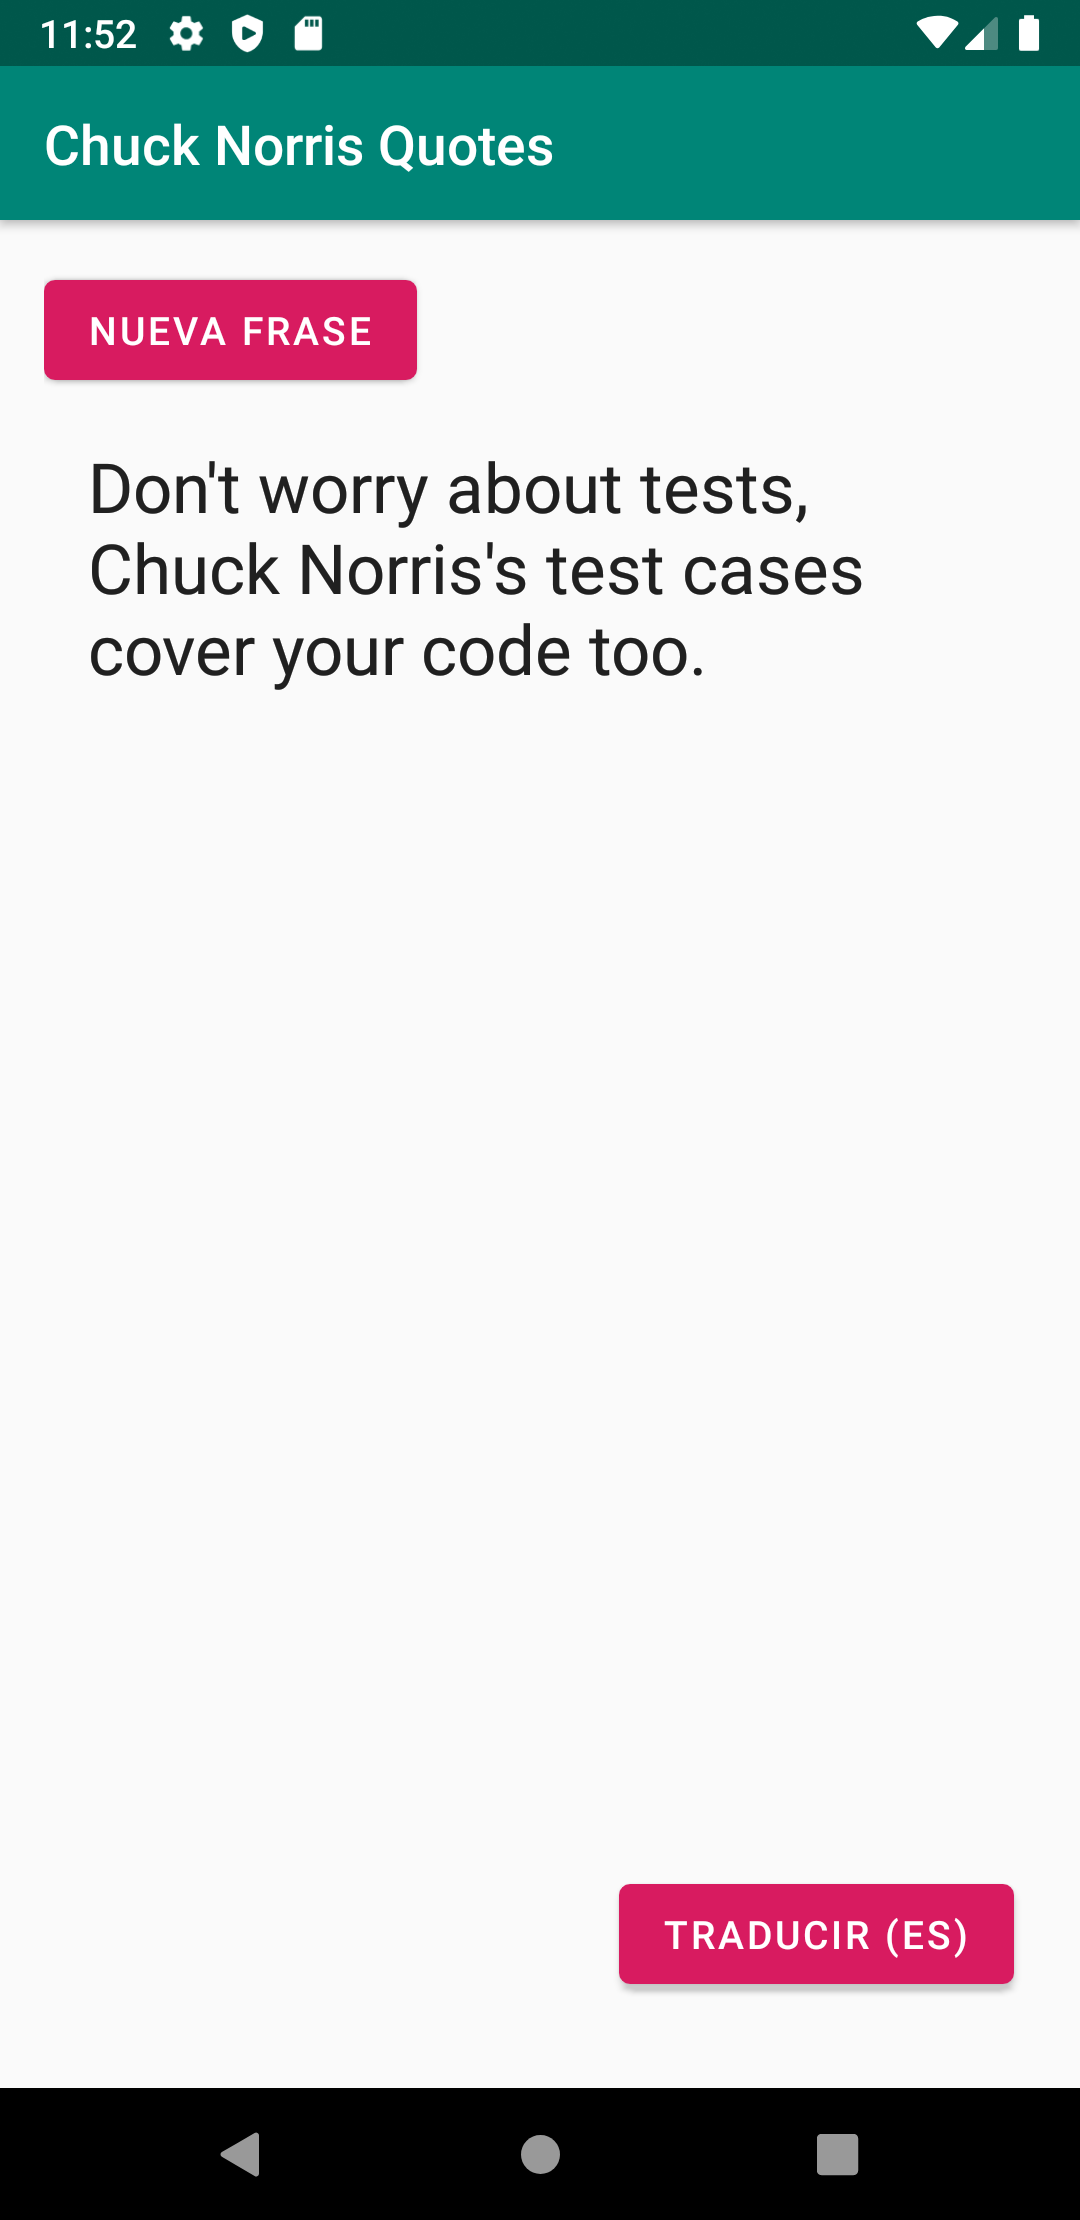
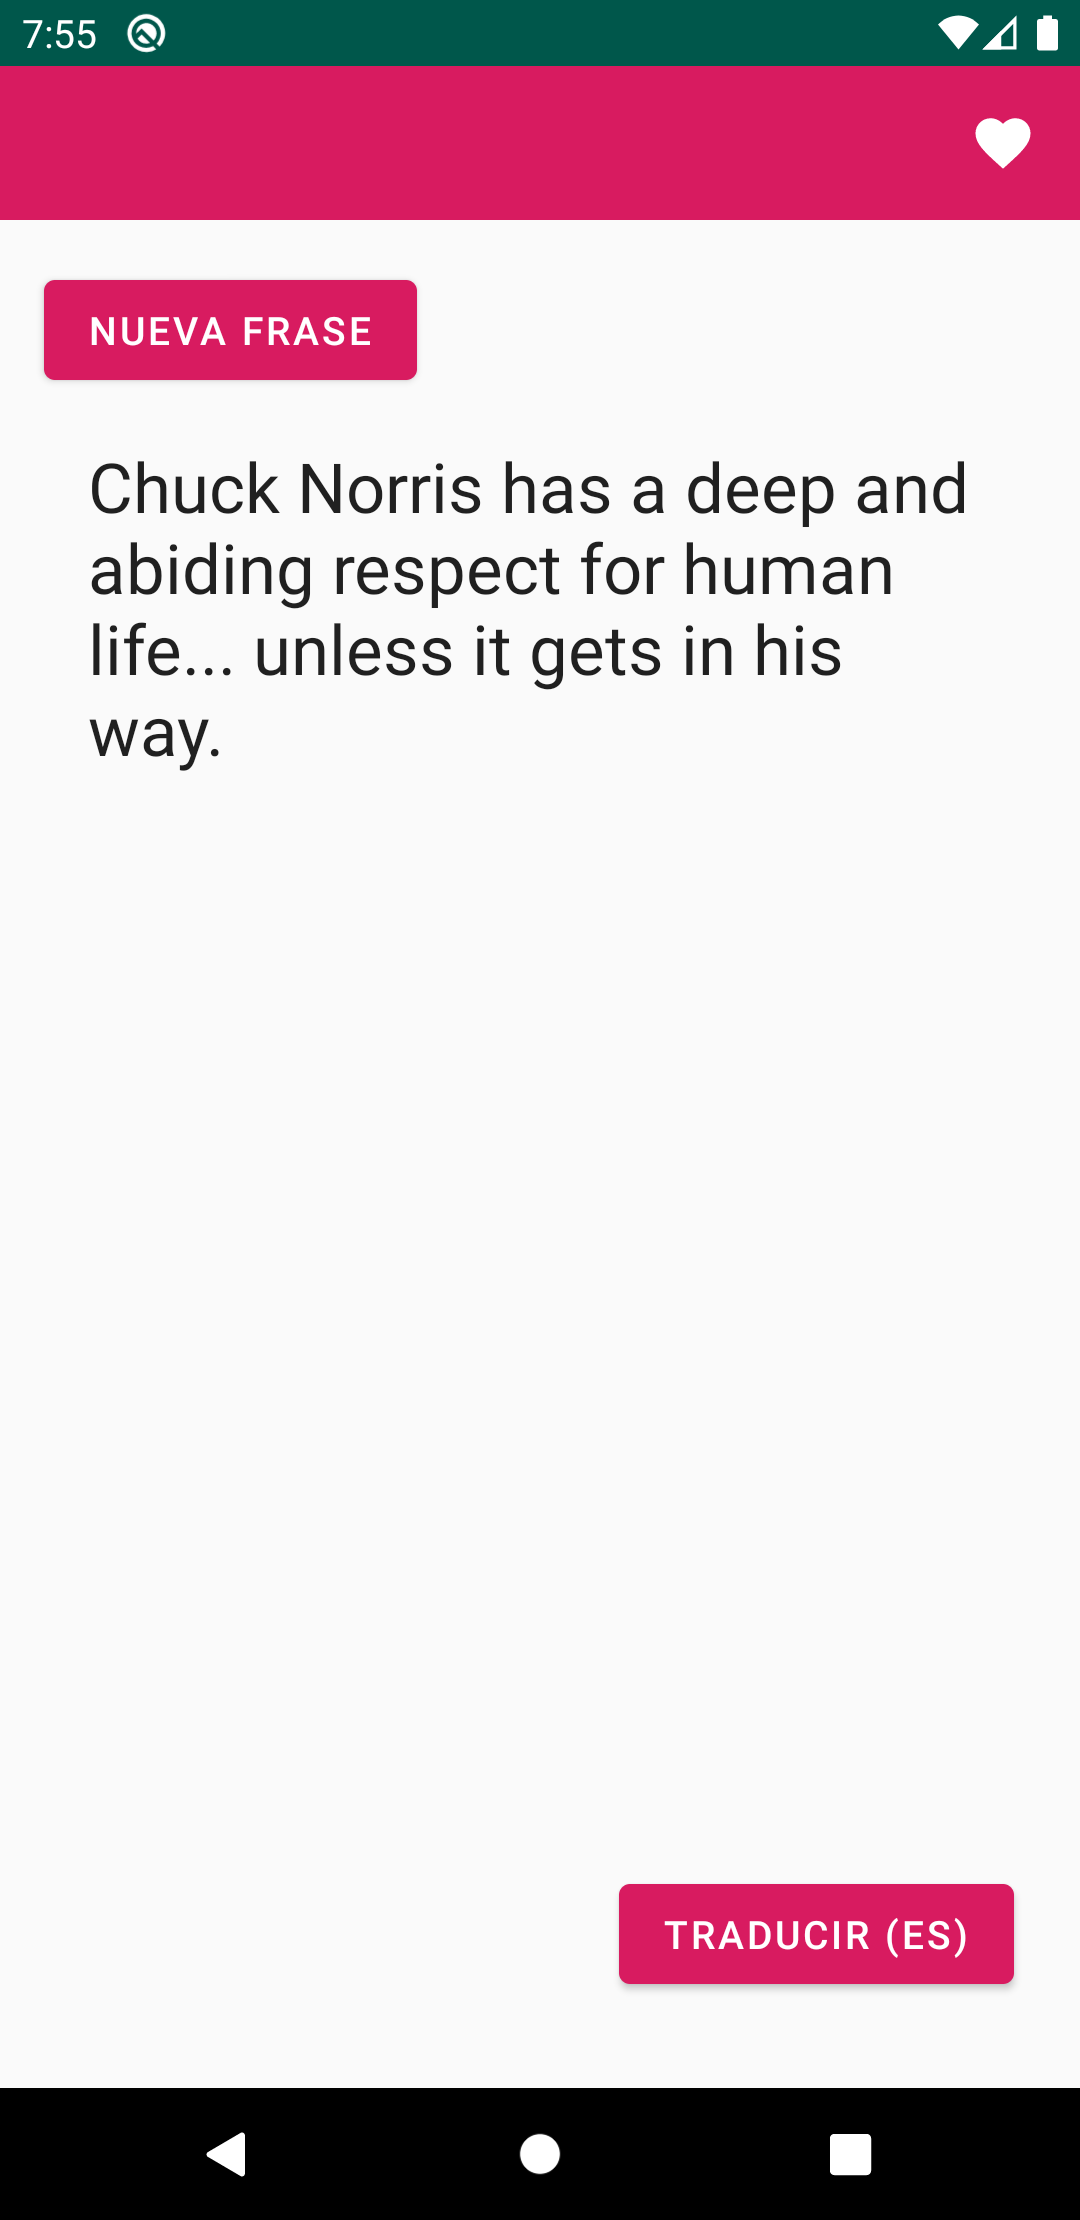
update readme

diff --git a/README.md b/README.md
@@ -10,3 +10,6 @@ App to practice serve as a POC base to experiment with different features, compo
 
 ### Translated quote to spanish:
 <img src="content/translated_quote.png" width="200"/>
+
+### Favs view:
+<img src="content/favs_view.png" width="200"/>
